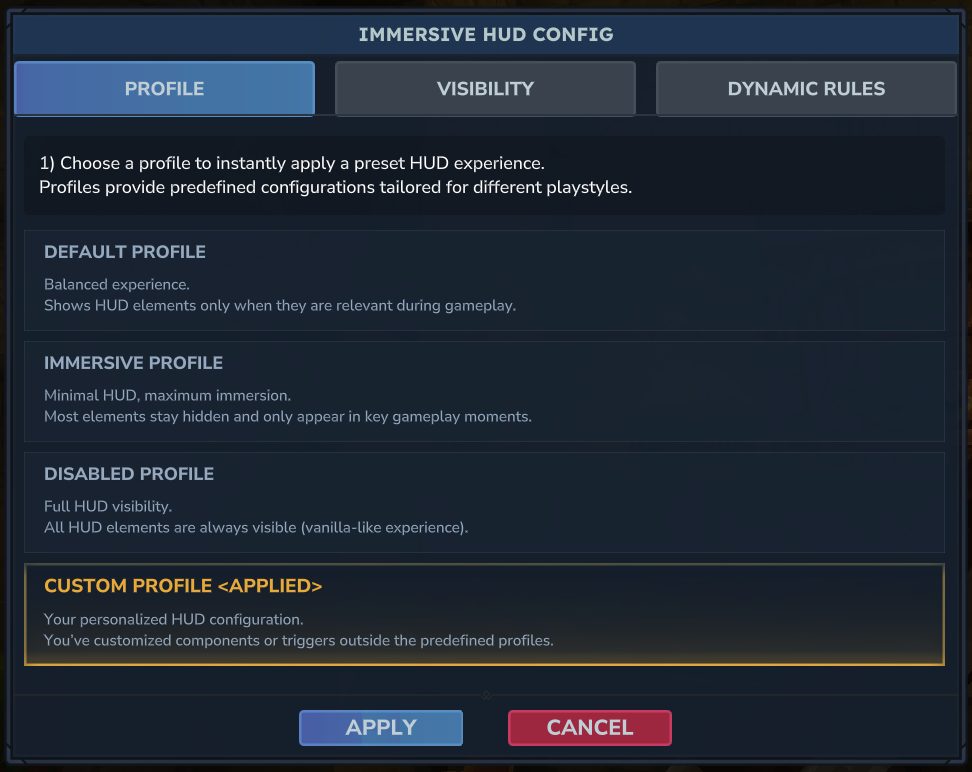
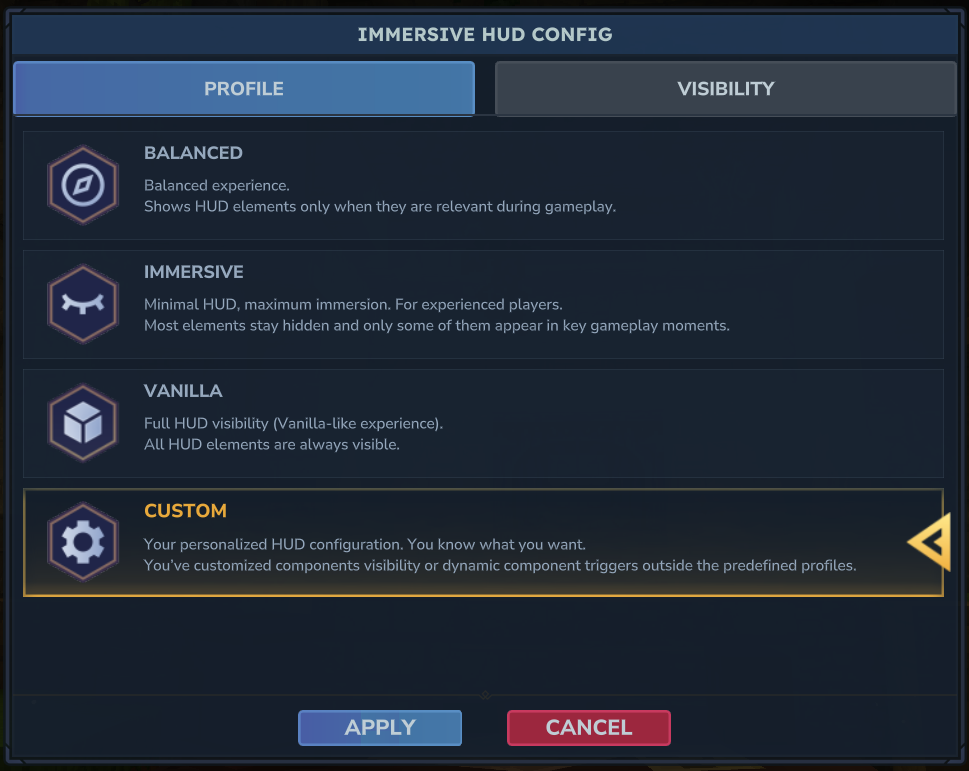
README.md: updated profiles names and screenshots. Added known issues section. Updated Project Structure.

diff --git a/README.md b/README.md
@@ -30,7 +30,7 @@ By T0m.R4nD0m / [t0mr4nd0m@gmail.com](mailto:t0mr4nd0m@gmail.com)
 
 - Dynamic HUD visibility based on gameplay
 - Configurable triggers per component
-- Built-in config profiles (default, immersive, disabled)
+- Built-in config profiles (balanced, immersive, vanilla)
 - Per-player configuration
 - Lightweight and performance-friendly
 - Custom config UI
@@ -229,9 +229,9 @@ You can switch between them instantly using commands.
 
 | Profile     | Description                                       |
 |-------------|---------------------------------------------------|
-| `default`   | Balanced. Shows HUD components only when relevant |
+| `balanced`  | Balanced. Shows HUD components only when relevant |
 | `immersive` | Minimal HUD, maximum immersion                    |
-| `disabled`  | HUD always visible (vanilla-like)                 |
+| `vanilla`   | HUD always visible (vanilla-like)                 |
 
 ---
 
@@ -245,13 +245,10 @@ or even better, use in-game **Config UI**
 Use command `/ihud config` to open in-game configuration UI to manage visibility, rules and profiles interactively.
 
 1. Select one of the available profiles to start customizing your experience
-<p style="text-align:center;"><img src="assets/006_config_0_profile.png" alt="Immersive HUD"/></p>
+<p style="text-align:center;"><img src="assets/006_config_0_profile.png" alt="Immersive HUD Config Profile"/></p>
 
-2. Toggle off the components you want to hide from your HUD
-<p style="text-align:center;"><img src="assets/006_config_1_visibility.png" alt="Immersive HUD"/></p>
-
-3. Select the triggers to change HUD components visibility 
-<p style="text-align:center;"><img src="assets/006_config_2_dynamic_rules.png" alt="Immersive HUD"/></p>
+2. Configure the visibility and rules to hide or show the different HUD elements
+<p style="text-align:center;"><img src="assets/006_config_1_visibility.png" alt="Immersive HUD Config Visibility"/></p>
 
 Finally, press **APPLY** to save and activate your configuration and start enjoying your new Immersive HUD experience.
 
@@ -535,6 +532,7 @@ runtime/
    HudTimers.java
    PlayerHeldItemState.java
    PlayerHudState.java
+   PlayerLifecycleService.java
    context/
       HudStateUpdater.java
       HudTriggerContextFactory.java
@@ -552,16 +550,21 @@ runtime/
       HudVisibilityCoordinator.java
       
 ui/
-   HudConfigDynamicRulesRenderer.java
    HudConfigPage.java
    HudConfigPresenter.java
    HudConfigProfilesRenderer.java
-   HudConfigRenderIndex.java
    HudConfigUiService.java
    HudConfigUiSession.java
    HudConfigView.java
    HudConfigVisibilityRenderer.java
 ```
+
+---
+
+## 🐞 Known Issues
+
+- **Input Bindings**: Due to limitations in the Hytale API, visibility for this HUD component cannot be reliably controlled by the plugin. To fully hide it, use the in-game settings.
+- **Status Icons**: Due to limitations in the Hytale API, this HUD component's visibility cannot currently be controlled by the plugin, and there is no available way to hide it.
 
 ---
 
